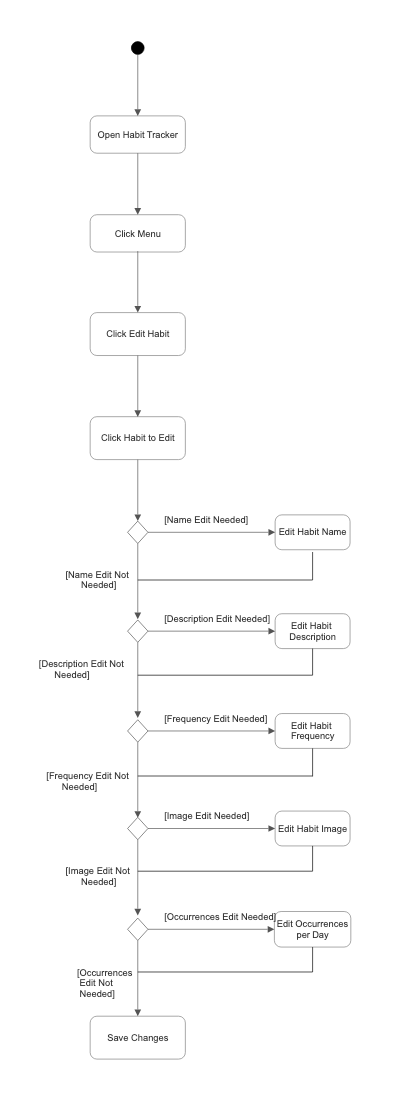
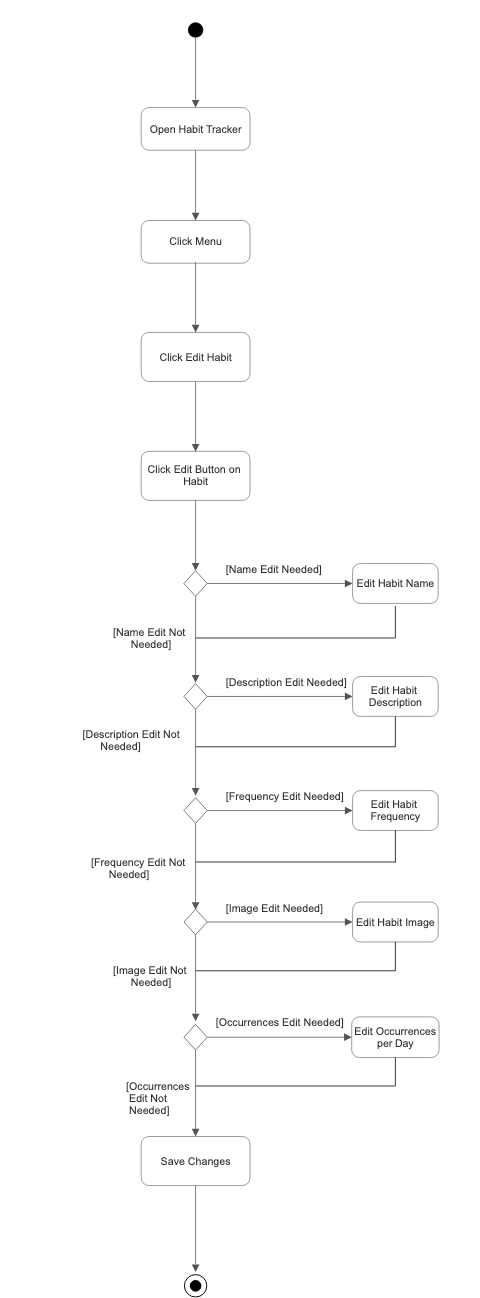
fixing activity diagram

diff --git a/README.md b/README.md
@@ -5,7 +5,7 @@ A little exercise to get started with the specification phase of the software de
 ## Team members
 
 [Julia Ahn](https://github.com/juliaahn)<br/>
-Sophia Schlichting<br/>
+[Sophia Schlichting](https://github.com/schlichtings)<br/>
 Wyatt Destabelle<br/>
 [Emily Ney](https://github.com/EmilyNey)<br/>
 
